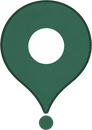
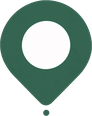
Pinos novos, e a etiqueta do local aparece de perto
## Os pinos

Os dois desenhos novos dele entram no lugar dos anteriores. Medidas: 46x58
(eram 46x65) e a ÂNCORA mudou de 0,941 para 0,9684 — o desenho é menos alto
e o ponto está mais em baixo. Sem medir outra vez, o pino apontaria acima do
sítio; é a terceira vez hoje que isto se mede, e é a razão de a âncora ser um
número tirado do ficheiro e não escrito à mão.

## A etiqueta

Ao longe fica o pino; de perto (`latitudeDelta` abaixo de 0,0035, uns 390 m
de altura de ecrã) o pino esconde-se e aparece a etiqueta — pastilha com o
nome do papel do ponto, pé e ponto em baixo, como ele desenhou. Os dois ao
mesmo tempo seriam duas marcas para o mesmo sítio.

CONSTRUÍDA EM CÓDIGO E NÃO COMO IMAGEM, e a razão é a app ter três línguas.
Ele mandou-a desenhada com «Local de recolha» lá dentro — uma imagem com
texto português chegaria assim a quem tem a app em tétum, e isso é
exactamente o que os nossos verificadores proíbem. Em código, o texto vem do
dicionário, fica nítido em qualquer densidade, e mudá-lo um dia não obriga a
gerar ficheiro nenhum. Os desenhos dele ficam como ESPECIFICAÇÃO: a forma, as
cores, o pé e o ponto.

Não é um marcador: é uma vista por cima do mapa, posicionada pelo pixel da
coordenada — o mesmo caminho dos cartões dos nossos lugares, e pela mesma
razão escrita nesse sítio. Um marcador com filhos é fotografado pelo mapa e
no telemóvel do Simão não aparece de todo.

As posições só se calculam quando estamos perto: longe não há etiqueta para
[…]

Changed region(s): [[0.0, 0.0, 1.0, 1.0], [0.2174, 0.181, 0.7826, 0.6207]]

diff --git a/mobile/src/components/MapaGoogle.js b/mobile/src/components/MapaGoogle.js
@@ -55,7 +55,7 @@ const TINTA = { teal: '#007E78', tealAnel: '#009490', coral: '#FC5430' };
 // `scripts/recortar-novos-icones.py` produz — e é aqui que tem de bater
 // certo, porque a MIRA desenha a mesma imagem numa vista com estas medidas.
 const PINO_L = 46;
-const PINO_A = 65;
+const PINO_A = 58;
 const CARTAO_L = 150;
 
 // O PINO DENTRO DO MAPA É UMA IMAGEM, e não o componente <Pino>.
@@ -149,8 +149,10 @@ const PONTO_OUTRO = require('../../assets/mapa/ponto-outro.png');
 //
 // Agora é um número medido no PRÓPRIO ficheiro: o centro do ponto de baixo,
 // que é o que assenta no chão. Medido com
-// `scripts/recortar-novos-icones.py` a produzir 46x65, deu 0,941.
-const ANCORA_Y = 0.941;
+// `scripts/recortar-novos-icones.py` a produzir 46x58, deu 0,9684.
+// (Mudou com os pinos novos de 22/09: o desenho é menos alto e o ponto
+// está mais em baixo — 0,941 apontaria acima do sítio.)
+const ANCORA_Y = 0.9684;
 
 // QUANTO A MIRA SOBE PARA A PONTA CAIR NO CENTRO DO ECRÃ.
 //
@@ -381,6 +383,59 @@ function usarDeslize(alvo) {
   return pos;
 }
 
+// A ETIQUETA DO LOCAL, de perto (22/09/2026).
+//
+// O Simão desenhou-a: uma pastilha com o nome do papel do ponto, um pé e um
+// ponto em baixo que marca o sítio. Ao longe fica o pino; **de perto** fica
+// isto, porque de perto há espaço e o que interessa deixa de ser «há aqui um
+// ponto» e passa a ser «este ponto é a recolha».
+//
+// CONSTRUÍDA EM CÓDIGO E NÃO EM IMAGEM, e a razão é a app ter três línguas.
+// Ele mandou-a desenhada com «Local de recolha» lá dentro — e uma imagem com
+// texto português chegaria assim a quem tem a app em tétum. Em código, o
+// texto vem do dicionário, fica nítido em qualquer ecrã, e mudá-lo um dia
+// não obriga a gerar ficheiros nenhuns. Os desenhos dele são a
+// ESPECIFICAÇÃO: a forma, as cores, o pé e o ponto.
+//
+// Não é um marcador: é uma vista por cima do mapa, posicionada pelo pixel da
+// coordenada — o mesmo caminho dos cartões dos nossos lugares, e pela mesma
+// razão. Um marcador com filhos é fotografado pelo mapa e no telemóvel dele
+// não aparece de todo.
+function RotuloLocal({ qual, texto }) {
+  const cor = qual === 'origem' ? TINTA.teal : TINTA.coral;
+  return (
+    <View style={styles.rotuloCaixa} pointerEvents="none">
+      <View style={[styles.rotuloPastilha, { backgroundColor: cor }]}>
+        <Text style={styles.rotuloTexto} numberOfLines={2}>
+          {texto}
+        </Text>
+      </View>
+      <View style={[styles.rotuloPe, { backgroundColor: cor }]} />
+      <View style={[styles.rotuloPonto, { backgroundColor: cor }]} />
+    </View>
+  );
+}
+
+// A PARTIR DE QUE ZOOM se troca o pino pela etiqueta.
+//
+// `latitudeDelta` é a altura do mapa em graus: quanto MENOR, mais perto.
+// 0,0035 graus são uns 390 metros de alto — o zoom a que já se distinguem
+// as casas de um quarteirão, e a partir do qual um pino grande passa a
+// tapar mais do que mostra.
+const PERTO = 0.0035;
+
+// A caixa da etiqueta. A altura conta a pastilha, o pé e o ponto: é por ela
+// que a etiqueta se levanta acima da coordenada, para o PONTO dela cair
+// exactamente onde caía a ponta do pino.
+const ROTULO_L = 132;
+const ROTULO_A = 62;
+
+const ROTULO_CHAVE = {
+  origem: 'mapaLocalRecolha',
+  destino: 'mapaLocalDestino',
+  paragem: 'mapaLocalParagem',
+};
+
 export default function MapaGoogle({
   pickable = false,
   arrastavel = false,
@@ -465,6 +520,10 @@ export default function MapaGoogle({
 
   const [rota, setRota] = useState(null);
   const [aMexer, setAMexer] = useState(false);
+  // A ALTURA DO MAPA EM GRAUS, para saber se estamos perto. Em estado e não
+  // só no ref porque quem a lê é o desenho: um ref muda sem redesenhar nada.
+  const [delta, setDelta] = useState(null);
+  const [pinosNoEcra, setPinosNoEcra] = useState([]);
   const [mapaPronto, setMapaPronto] = useState(false);
   // Onde o cartão do nome tem de ser desenhado, em pixéis do ecrã.
   const [cartoes, setCartoes] = useState([]);
@@ -921,6 +980,44 @@ export default function MapaGoogle({
     mapaRef.current?.animateCamera({ heading: 0 }, { duration: 300 });
   }, []);
 
+  // ONDE ESTÃO OS PINOS NO ECRÃ, para lhes encostar a etiqueta.
+  //
+  // Só se calcula quando estamos PERTO — longe não há etiqueta para pôr, e
+  // cada cálculo destes é uma ida ao mapa nativo por cada ponto.
+  useEffect(() => {
+    let vivo = true;
+    const perto = delta != null && delta < PERTO;
+    if (!mapaPronto || !mapaRef.current || !perto || !pts.length) {
+      setPinosNoEcra([]);
+      return undefined;
+    }
+    Promise.all(
+      pts.map((p) =>
+        mapaRef.current
+          .pointForCoordinate({
+            latitude: p.pino ? p.pino.lat : p.lat,
+            longitude: p.pino ? p.pino.lng : p.lng,
+          })
+          .catch(() => null)
+      )
+    )
+      .then((pontos) => {
+        if (!vivo) return;
+        setPinosNoEcra(
+          pts
+            .map((p, i) => (pontos[i] ? { ...p, x: pontos[i].x, y: pontos[i].y } : null))
+            .filter(Boolean)
+        );
+      })
+      .catch(() => vivo && setPinosNoEcra([]));
+    return () => {
+      vivo = false;
+    };
+  }, [pts, mapaPronto, aMexer, delta]);
+
+  // Estamos perto? Decide quem marca o ponto: o pino ou a etiqueta.
+  const perto = delta != null && delta < PERTO;
+
   const centroMudou = useCallback(
     (regiao) => {
       setAMexer(false);
@@ -937,6 +1034,7 @@ export default function MapaGoogle({
       }
       centroRef.current = { lat: regiao.latitude, lng: regiao.longitude };
       regiaoRef.current = regiao;
+      setDelta(regiao.latitudeDelta);
       recalcularCartoes();
       // COM TRAVÃO (21/09/2026). Cada paragem do mapa pedia os nomes da zona
       // ao servidor. Quem arrasta o mapa à procura de um sítio pára cinco ou
@@ -1221,6 +1319,10 @@ export default function MapaGoogle({
                   }
                 : undefined
             }
+            // DE PERTO O PINO SOME, e a etiqueta toma o lugar dele (ver
+            // RotuloLocal). Os dois ao mesmo tempo seriam duas marcas para o
+            // mesmo ponto — e a etiqueta já traz o seu ponto em baixo.
+            opacity={perto ? 0 : 1}
             image={IMAGEM[p.qual]}
           />
         ))}
@@ -1322,6 +1424,22 @@ export default function MapaGoogle({
             </View>
           );
         })}
+
+      {/* AS ETIQUETAS DOS LOCAIS, de perto.
+          Centradas sobre o ponto e ACIMA dele, que é onde o pé e o ponto do
+          desenho as põem. Somem enquanto o dedo arrasta, como os cartões:
+          uma etiqueta atrasada diz que a recolha é ali, e não é. */}
+      {perto &&
+        !aMexer &&
+        pinosNoEcra.map((p) => (
+          <View
+            key={`rotulo-${p.qual}-${p.lat},${p.lng}`}
+            pointerEvents="none"
+            style={[styles.rotuloSolto, { left: p.x - ROTULO_L / 2, top: p.y - ROTULO_A }]}
+          >
+            <RotuloLocal qual={p.qual} texto={t(ROTULO_CHAVE[p.qual] || ROTULO_CHAVE.origem)} />
+          </View>
+        ))}
 
       {/* ONDE O CARRO PÁRA.
           Um ponto na estrada e o rótulo por cima, na ponta da linha aos
@@ -1654,6 +1772,23 @@ const criarEstilos = () =>
       elevation: 3,
     },
     miraCaixa: { ...StyleSheet.absoluteFillObject, alignItems: 'center', justifyContent: 'center' },
+    rotuloSolto: { position: 'absolute', width: ROTULO_L, alignItems: 'center' },
+    rotuloCaixa: { alignItems: 'center' },
+    rotuloPastilha: {
+      maxWidth: ROTULO_L,
+      paddingHorizontal: 10,
+      paddingVertical: 5,
+      borderRadius: radius.pill,
+    },
+    rotuloTexto: {
+      ...tipo.pequeno,
+      color: '#FFFFFF',
+      fontWeight: '700',
+      textAlign: 'center',
+    },
+    // O pé e o ponto, como no desenho dele: um risco fino e uma bola.
+    rotuloPe: { width: 3, height: 10 },
+    rotuloPonto: { width: 11, height: 11, borderRadius: 6 },
     mira: { transform: [{ translateY: SUBIR_MIRA }] },
     miraAMexer: { transform: [{ translateY: SUBIR_MIRA_A_MEXER }] },
   });

diff --git a/mobile/src/i18n/pt.js b/mobile/src/i18n/pt.js
@@ -463,6 +463,10 @@ export default {
 
   // Viagens
   destination: 'Destino',
+  // ── Etiquetas dos locais no mapa, de perto (22/09/2026) ──
+  mapaLocalRecolha: 'Local de recolha',
+  mapaLocalDestino: 'Local de destino',
+  mapaLocalParagem: 'Paragem',
   originField: 'Ponto de partida',
   vehicleAny: 'Qualquer',
 

diff --git a/mobile/src/i18n/en.js b/mobile/src/i18n/en.js
@@ -459,6 +459,10 @@ export default {
   logout: 'Sign out',
 
   destination: 'Destination',
+  // ── Etiquetas dos locais no mapa, de perto (22/09/2026) ──
+  mapaLocalRecolha: 'Pickup point',
+  mapaLocalDestino: 'Drop-off point',
+  mapaLocalParagem: 'Stop',
   originField: 'Pickup point',
   vehicleAny: 'Any',
 

diff --git a/mobile/src/i18n/tet.js b/mobile/src/i18n/tet.js
@@ -459,6 +459,10 @@ export default {
 
   // Viajen
   destination: 'Destinu',
+  // ── Etiquetas dos locais no mapa, de perto (22/09/2026) ──
+  mapaLocalRecolha: 'Fatin foti',
+  mapaLocalDestino: 'Fatin destinu',
+  mapaLocalParagem: 'Para',
   originField: 'Fatin atu hahú',
   vehicleAny: 'Kualkér',
 

diff --git a/mobile/scripts/recortar-novos-icones.py b/mobile/scripts/recortar-novos-icones.py
@@ -84,8 +84,8 @@ ICONES = {
     # perdiam-se no meio dos nomes e dos ícones que o Google desenha por
     # baixo. Quarenta por cento maiores, que é o que os põe a mandar na
     # imagem sem taparem a rua.
-    'pino-origem': ('pino de recolha.jpg', 'mapa', 46),
-    'pino-destino': ('pino de destino.jpg', 'mapa', 46),
+    'pino-origem': ('novo pino recolha.jpeg', 'mapa', 46),
+    'pino-destino': ('Novo pino destino.jpeg', 'mapa', 46),
 }
 
 # OS VEÍCULOS NÃO PASSAM POR AQUI, e é o sítio certo para dizer porquê.
